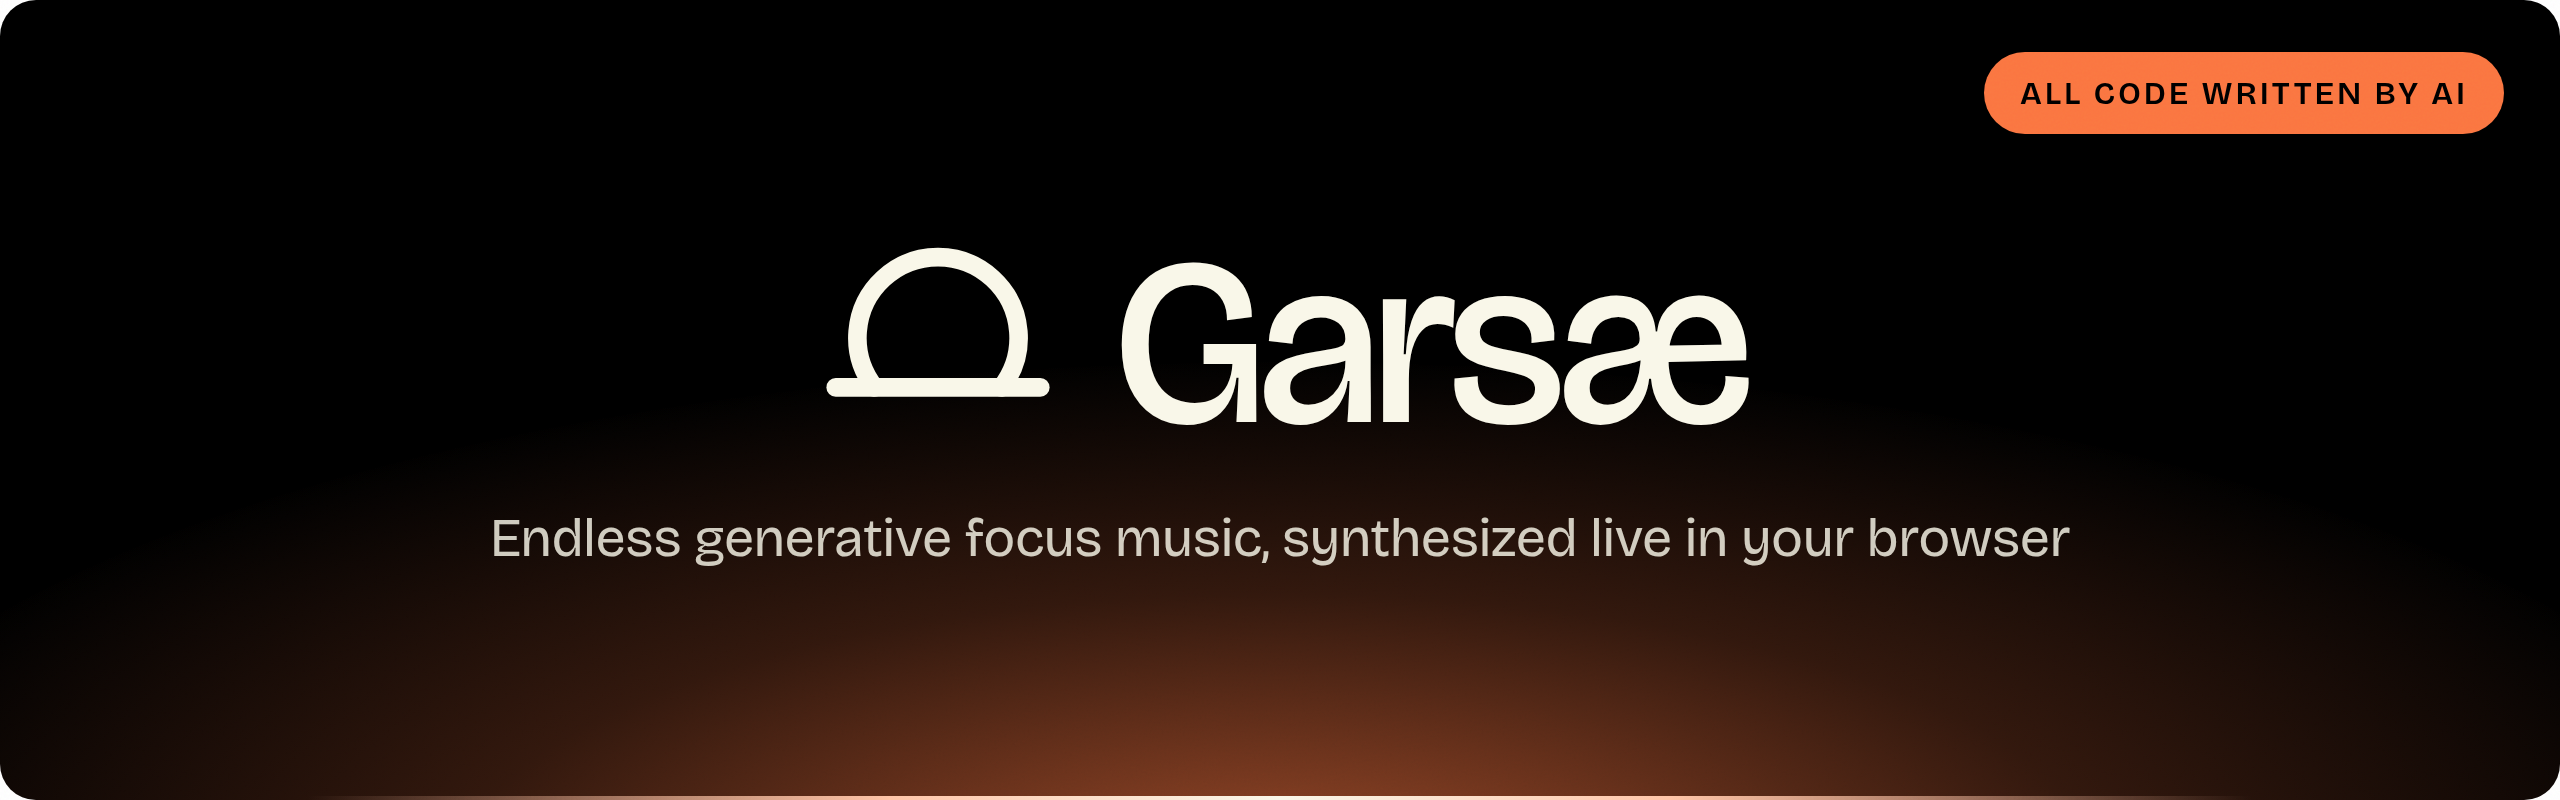
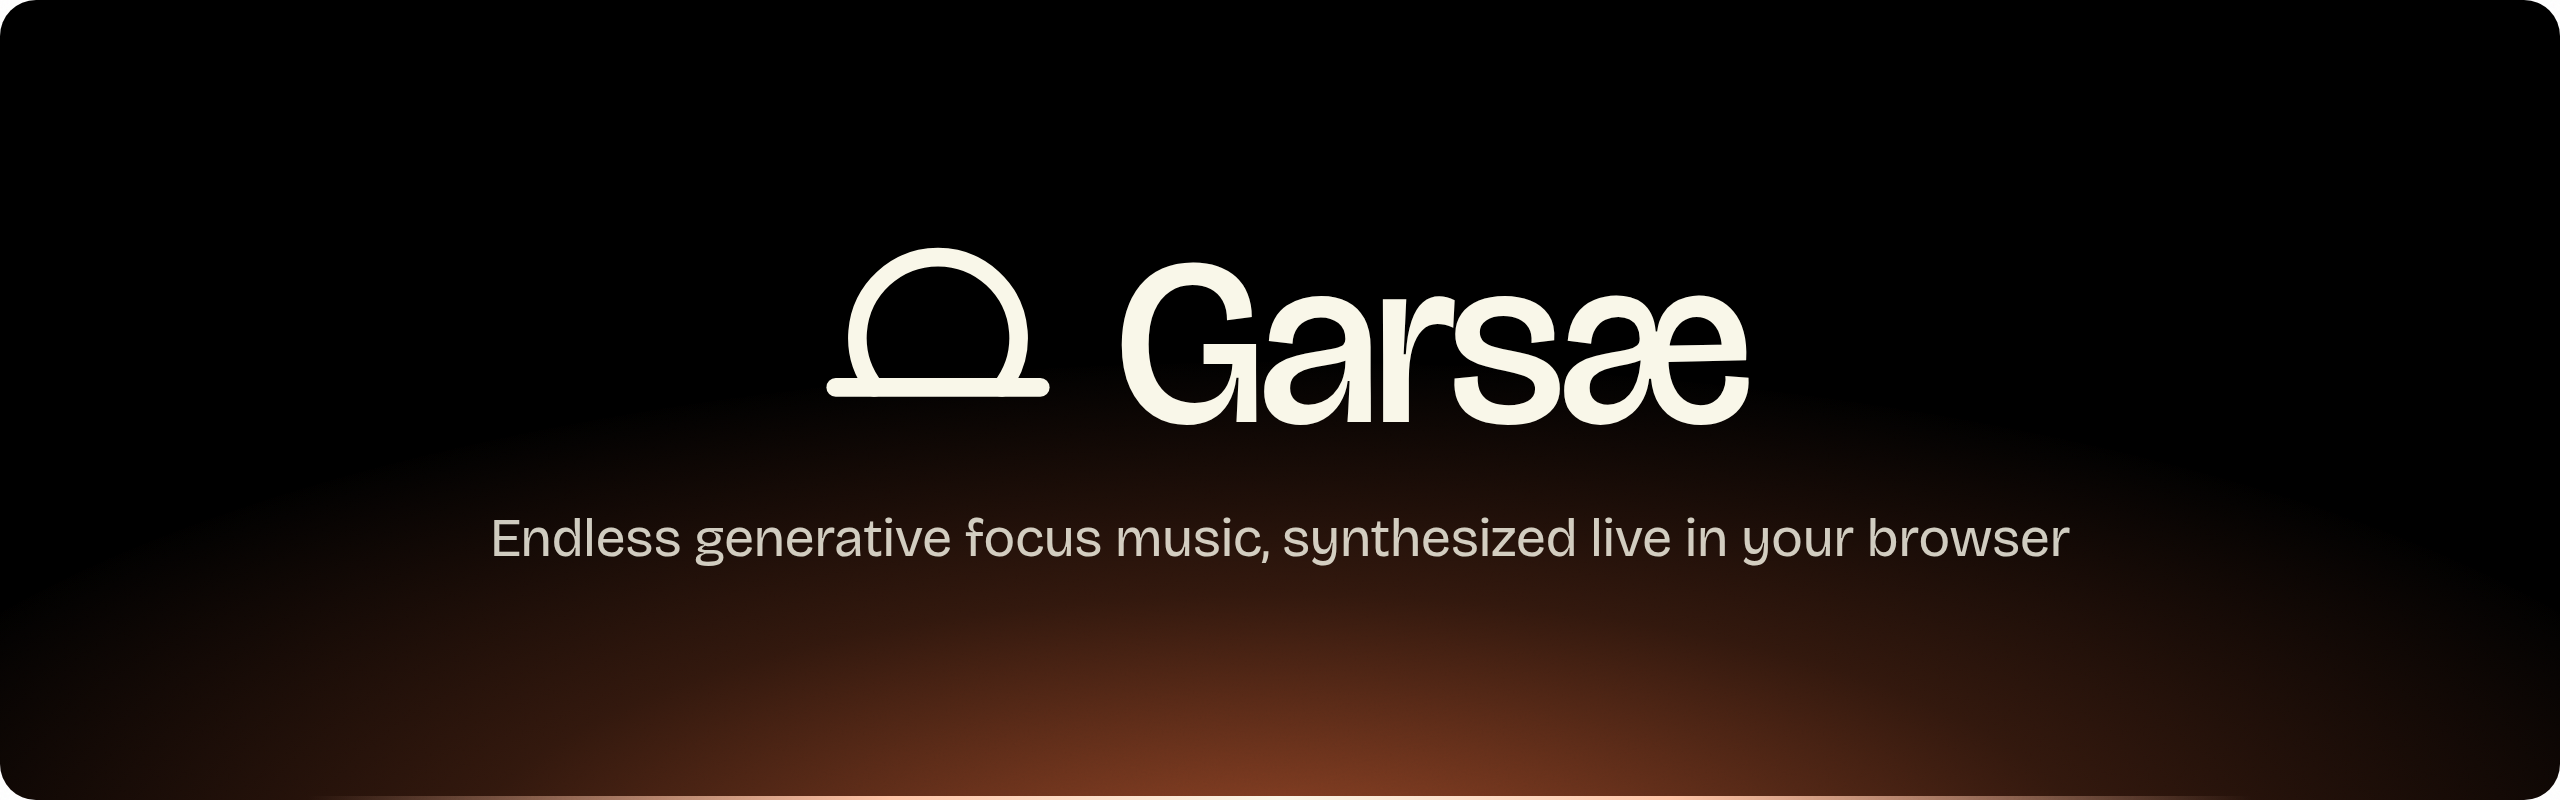
Keep only the markdown AI disclaimer in the README

Changed region(s): [[0.75, 0.0625, 1.0, 0.1875]]

diff --git a/README.md b/README.md
@@ -1,14 +1,11 @@
 <p align="center">
-  <img src="docs/images/banner.png" alt="Garsæ: endless generative focus music, synthesized live in your browser. All code written by AI." width="100%">
+  <img src="docs/images/banner.png" alt="Garsæ: endless generative focus music, synthesized live in your browser." width="100%">
 </p>
 
 <p align="center">
-  <a href="#ai-disclosure"><img src="https://img.shields.io/badge/code-100%25%20AI--written-d73a49?style=for-the-badge" alt="Code: 100% AI-written"></a>
   <a href="https://pijusran.github.io/garsae/"><img src="https://img.shields.io/badge/open-the%20app-fa7641?style=for-the-badge" alt="Open the app"></a>
   <a href="https://github.com/PijusRan/garsae/actions/workflows/deploy.yml"><img src="https://img.shields.io/github/actions/workflow/status/PijusRan/garsae/deploy.yml?branch=main&style=for-the-badge&label=deploy" alt="Deploy status"></a>
 </p>
-
-<a id="ai-disclosure"></a>
 
 > [!CAUTION]
 > **All of the code in this repository was written by AI** (Claude, through Claude Code). The design decisions and direction are human; the implementation is not.
